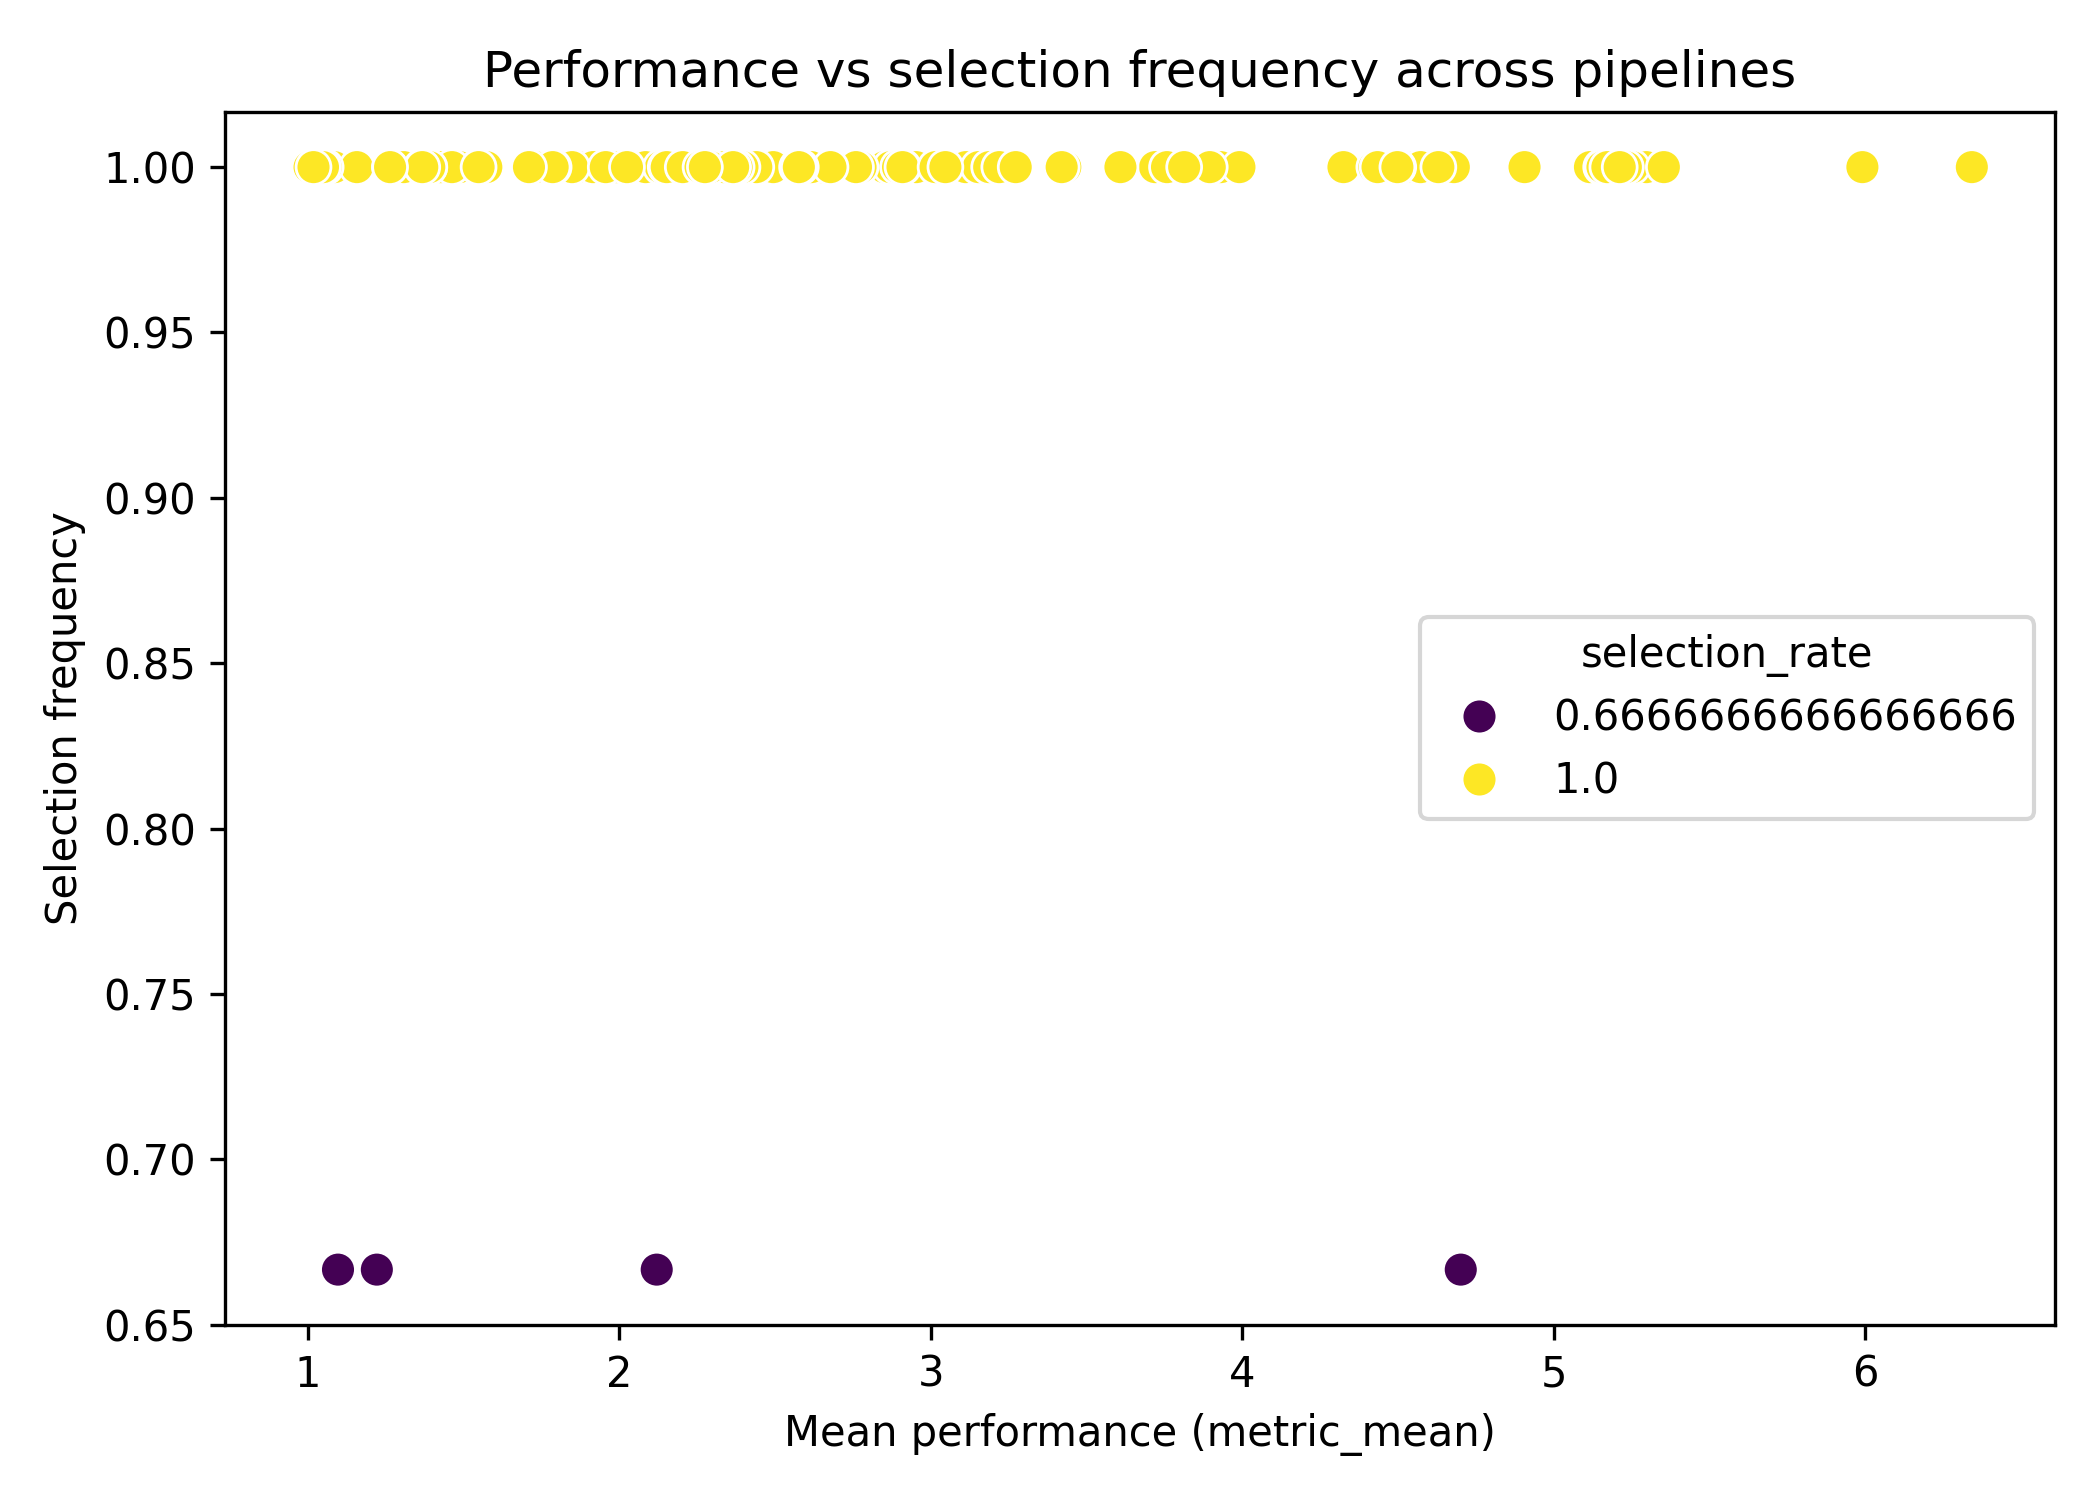
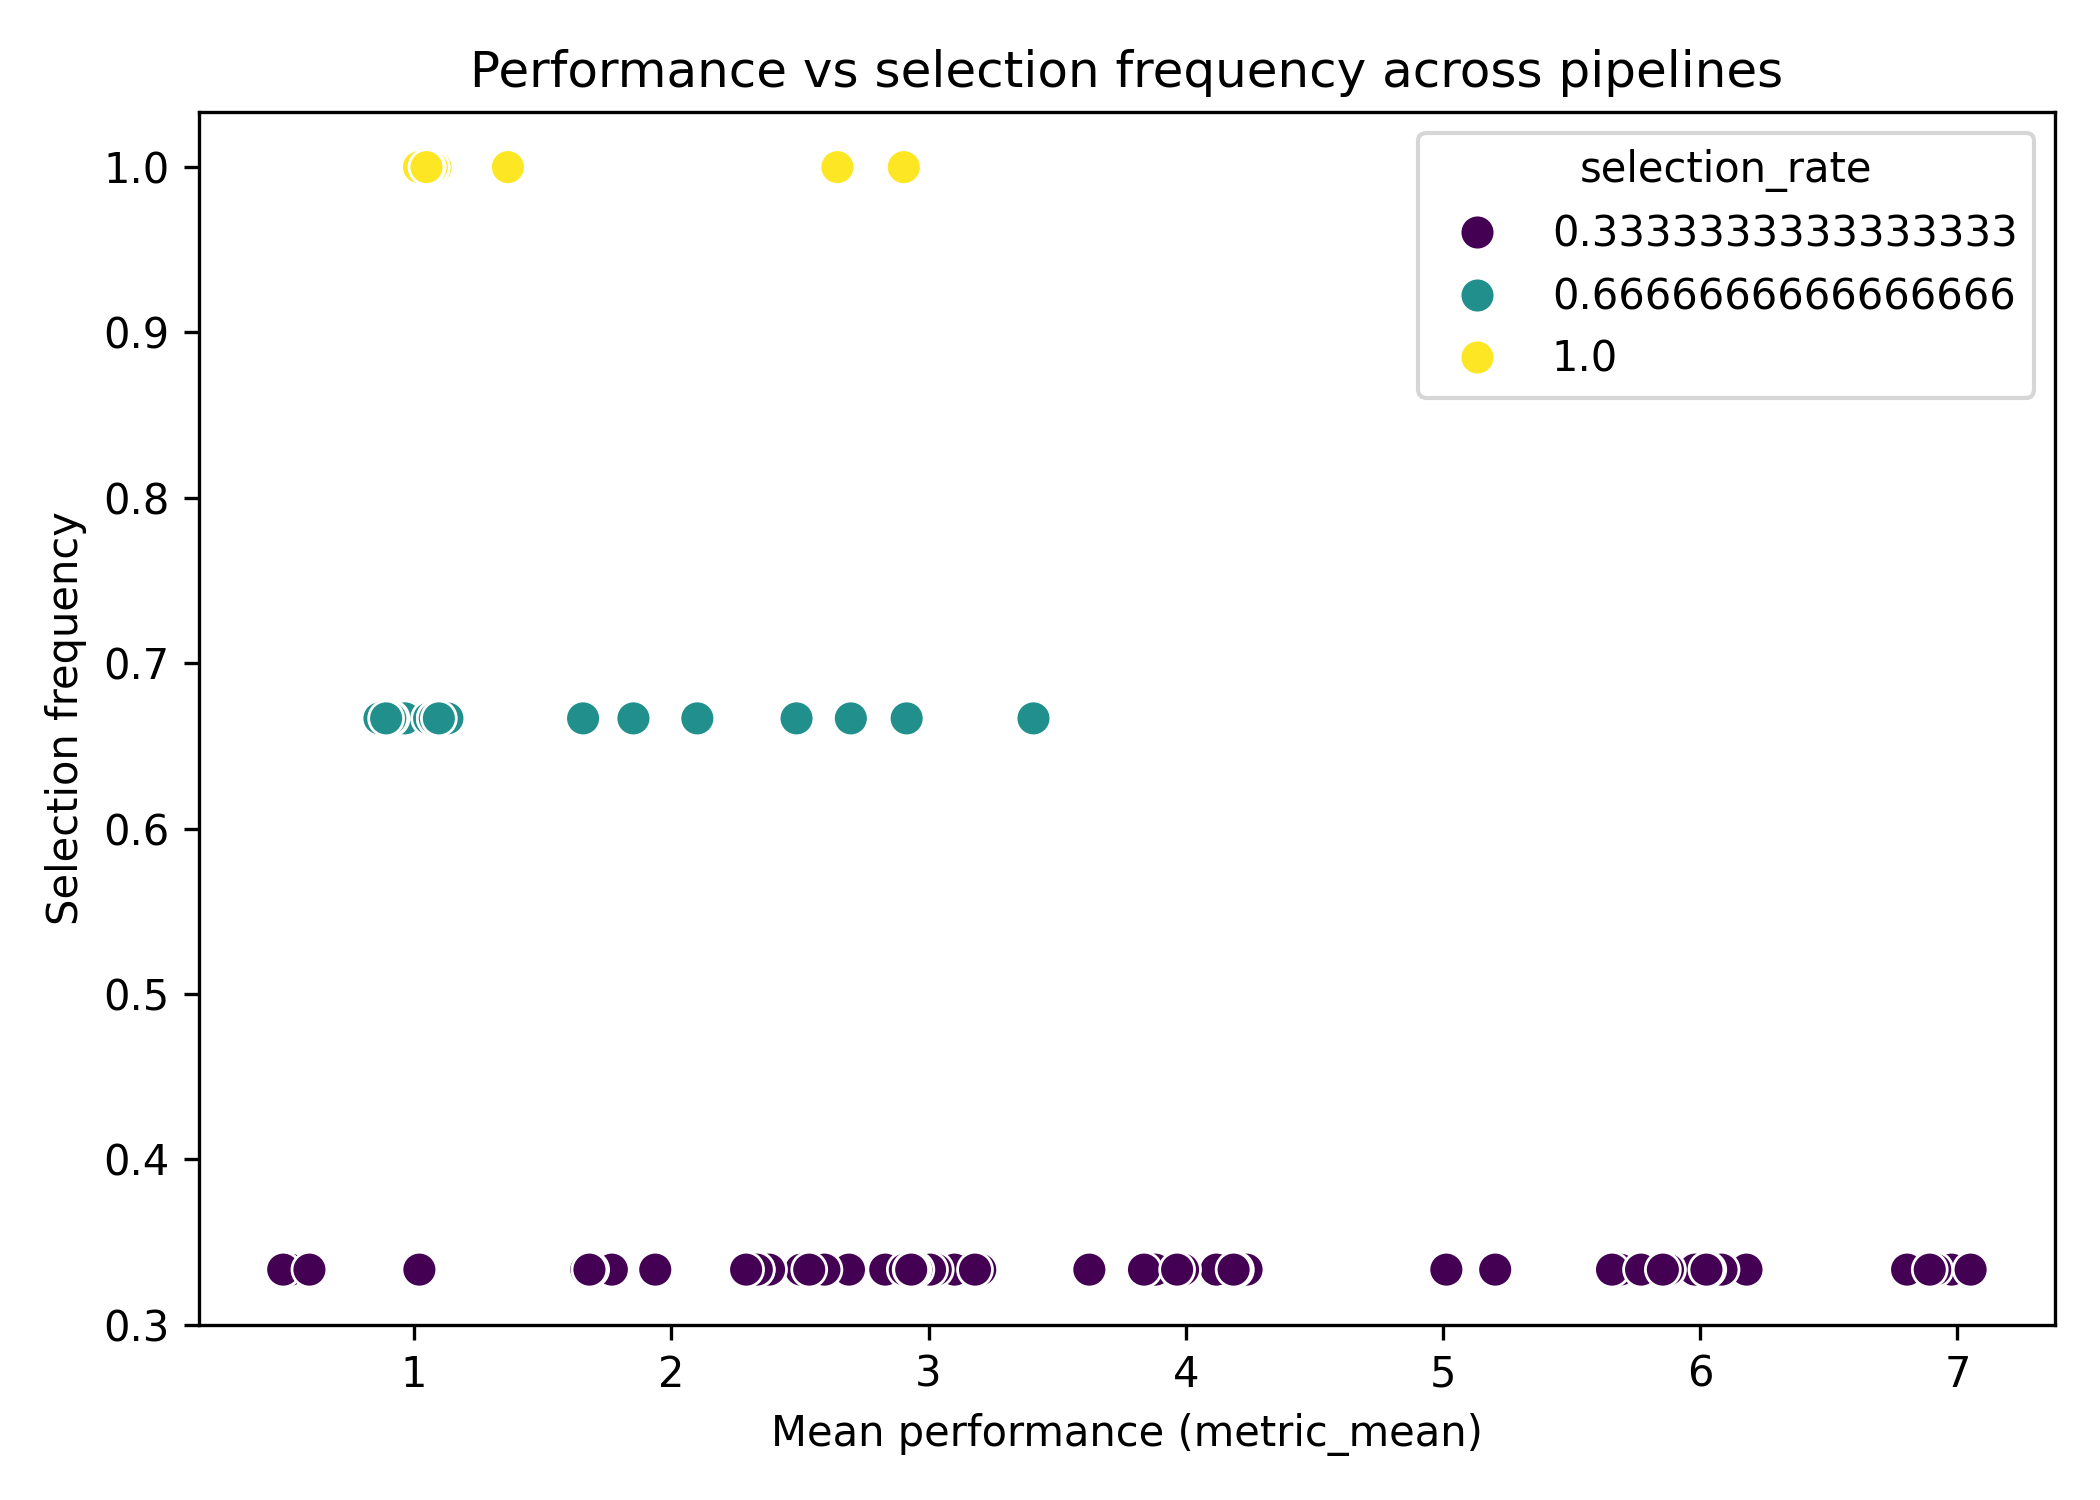
figures comparison pipelines filter couples

diff --git a/scripts/assoc_pp_model/filter_couples/compare_results_pipelines.py b/scripts/assoc_pp_model/filter_couples/compare_results_pipelines.py
@@ -95,7 +95,7 @@ def normalize_model_name(model):
 
     # Merge NICON_reg and CNN_reg into a single model name
     if "nicon" in m or "cnn" in m:
-        return "NICON"
+        return "CNN"
 
     # Default: return unchanged
     return model
@@ -110,6 +110,10 @@ def load_pipeline_csv(name, path):
         raise FileNotFoundError(f"Missing file for {name}: {full_path}")
 
     df = pd.read_csv(full_path)
+
+    # Keep only selected=True rows
+    df = df[df['selected'] == True]
+        
 
     # Apply regression/classification filtering
     df = filter_task(df)

diff --git a/Notes_phd_Robin/journals/2025_11_25.md b/Notes_phd_Robin/journals/2025_11_25.md
@@ -1,0 +1,6 @@
+### Reminders
+	- TODO Finir de préparer la présentation d'équipe
+		- TODO Ajouter les figures par pipeline
+		- TODO Obtenir des figures comparatives satisfaisantes
+		- TODO Obtenir des résultats/Figures pour la validation par stacking
+		- TODO Répéter la présentation au moins deux fois
